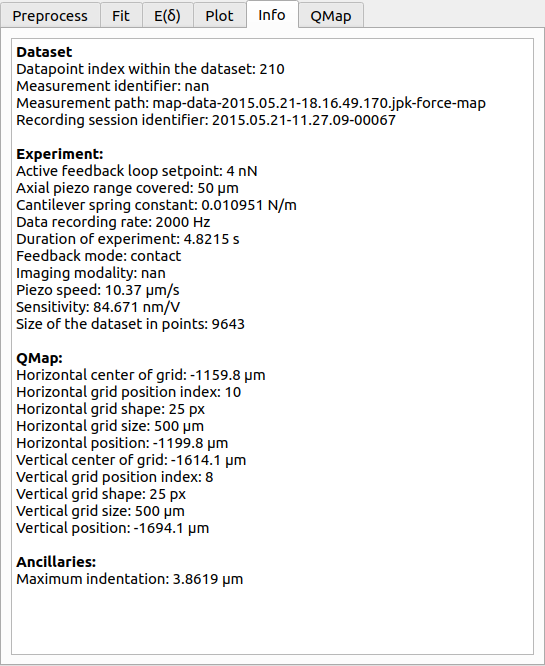
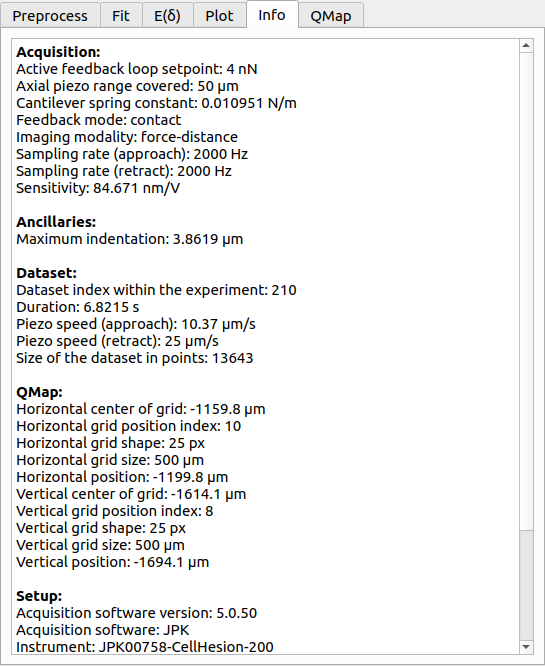
enh: several improvements regarding metadata handling

Changed region(s): [[0.0312, 0.0601, 0.9046, 0.991], [0.9358, 0.7808, 0.9982, 0.991], [0.9358, 0.0601, 0.967, 0.0901]]

diff --git a/pyjibe/fd/export.py b/pyjibe/fd/export.py
@@ -10,13 +10,10 @@ import nanite.model as nmodel
 from .. import units
 
 #: Valid export choices in `save_tsv_metadata_results`
-EXPORT_CHOICES = [
-    "dataset",
-    "experiment",
+EXPORT_CHOICES = list(meta.META_FIELDS.keys()) + [
     "params_ancillary",
     "params_fitted",
     "params_initial",
-    "qmap",
     "rating"]
 
 
@@ -69,25 +66,28 @@ def save_tsv_metadata_results(filename, fdist_list, which=EXPORT_CHOICES):
                 if "params_initial" in fdist.fit_properties:
                     fp = fdist.fit_properties["params_initial"]
                     for ki in fp:
-                        label, hrvalue = get_unitname_value(
-                            name=nmodel.get_parm_name(model_key, ki),
-                            value=fp[ki].value,
-                            unit=nmodel.get_parm_unit(model_key, ki))
-                        if label not in columns:
-                            columns[label] = [np.nan] * len(fdist_list)
-                        columns[label][ii] = hrvalue
+                        if not fp[ki].vary:
+                            label, hrvalue = get_unitname_value(
+                                name=nmodel.get_parm_name(model_key, ki),
+                                value=fp[ki].value,
+                                unit=nmodel.get_parm_unit(model_key, ki))
+                            if label not in columns:
+                                columns[label] = [np.nan] * len(fdist_list)
+                            columns[label][ii] = hrvalue
 
+            # Fitted
             if "params_fitted" in which:
                 if "params_fitted" in fdist.fit_properties:
                     fp = fdist.fit_properties["params_fitted"]
                     for ki in fp:
-                        label, hrvalue = get_unitname_value(
-                            name=nmodel.get_parm_name(model_key, ki),
-                            value=fp[ki].value,
-                            unit=nmodel.get_parm_unit(model_key, ki))
-                        if label not in columns:
-                            columns[label] = [np.nan] * len(fdist_list)
-                        columns[label][ii] = hrvalue
+                        if fp[ki].vary:
+                            label, hrvalue = get_unitname_value(
+                                name=nmodel.get_parm_name(model_key, ki),
+                                value=fp[ki].value,
+                                unit=nmodel.get_parm_unit(model_key, ki))
+                            if label not in columns:
+                                columns[label] = [np.nan] * len(fdist_list)
+                            columns[label][ii] = hrvalue
 
                     # Additional fit parameters
                     props = {"xmin": ("Fit interval minimum", "m"),

diff --git a/pyjibe/fd/tab_info.py b/pyjibe/fd/tab_info.py
@@ -17,46 +17,26 @@ class TabInfo(QtWidgets.QWidget):
         uic.loadUi(path_ui, self)
 
     def update_info(self, fdist):
+        hr_info = {}
+
+        # Metadata
         msum = fdist.metadata.get_summary()
-
-        text = []
-
-        # Dataset
-        text.append("<b>Dataset</b>")
-        for kk in msum["dataset"]:
-            text.append(get_string_rep_meta(kk, msum["dataset"][kk]))
-
-        # Experiment
-        text.append("")
-        text.append("<b>Experiment:</b>")
-        texte = []
-        for kk in msum["experiment"]:
-            texte.append(get_string_rep_meta(kk, msum["experiment"][kk]))
-        text += sorted(texte)
-
-        # QMap
-        if msum["qmap"] and not has_all_nans(msum["qmap"]):
-            text.append("")
-            text.append("<b>QMap:</b>")
-            textq = []
-            for kk in msum["qmap"]:
-                textq.append(get_string_rep_meta(kk, msum["qmap"][kk]))
-            text += sorted(textq)
-
-        # Analysis
-        if msum["analysis"] and not has_all_nans(msum["analysis"]):
-            text.append("")
-            text.append("<b>Analysis:</b>")
-            texta = []
-            for kk in msum["analysis"]:
-                texta.append(get_string_rep_meta(kk, msum["analysis"][kk]))
-            text += sorted(texta)
+        for sec in msum:
+            if sec == "qmap":
+                if msum["qmap"] and not has_all_nans(msum["qmap"]):
+                    textq = []
+                    for kk in msum["qmap"]:
+                        textq.append(get_string_rep_meta(kk, msum["qmap"][kk]))
+                    hr_info["QMap"] = textq
+            else:
+                atext = []
+                for kk in msum[sec]:
+                    atext.append(get_string_rep_meta(kk, msum[sec][kk]))
+                hr_info[sec.capitalize()] = atext
 
         # Ancillaries
         anc_dict = fdist.get_ancillary_parameters()
         if anc_dict:
-            text.append("")
-            text.append("<b>Ancillaries:</b>")
             text_meta = []
             model_key = fdist.fit_properties["model_key"]
             for kk in anc_dict:
@@ -64,7 +44,13 @@ class TabInfo(QtWidgets.QWidget):
                     get_string_rep(name=model.get_parm_name(model_key, kk),
                                    value=anc_dict[kk],
                                    unit=model.get_parm_unit(model_key, kk)))
-            text += sorted(text_meta)
+            hr_info["Ancillaries"] = text_meta
+
+        text = []
+        for sec in sorted(hr_info.keys()):
+            text.append("<b>{}:</b>".format(sec))
+            text += sorted(hr_info[sec])
+            text.append("")
 
         textstring = "<br>".join(text)
 

diff --git a/pyjibe/fd/main.py b/pyjibe/fd/main.py
@@ -227,8 +227,7 @@ class UiForceDistance(QtWidgets.QWidget):
                         )
                         fname = os.path.join(adir, newbase)
                 # Export data
-                which = export.EXPORT_CHOICES.copy()
-                which.remove("params_ancillary")
+                which = ["params_fitted", "rating"]
                 export.save_tsv_metadata_results(filename=fname,
                                                  fdist_list=exp_curv,
                                                  which=which)
@@ -331,6 +330,8 @@ class UiForceDistance(QtWidgets.QWidget):
         self.tab_qmap.mpl_qmap_update()
         # Display edelta
         self.tab_edelta.mpl_edelta_update()
+        # Autosave
+        self.autosave(fdist)
 
     def on_curve_list_item_changed(self, item):
         """An item in the curve list was changed

diff --git a/pyjibe/fd/dlg_export_vals.py b/pyjibe/fd/dlg_export_vals.py
@@ -31,9 +31,11 @@ class ExportDialog(QtWidgets.QDialog):
                 if not fname.endswith(".tsv"):
                     fname += ".tsv"
                 user_choices = {
+                    "acquisition": self.checkBox_acquisition,
                     "dataset": self.checkBox_dataset,
-                    "experiment": self.checkBox_experiment,
                     "qmap": self.checkBox_qmap,
+                    "setup": self.checkBox_setup,
+                    "storage": self.checkBox_storage,
                     "params_initial": self.checkBox_initial,
                     "params_fitted": self.checkBox_fitted,
                     "params_ancillary": self.checkBox_ancillary,

diff --git a/setup.py b/setup.py
@@ -24,7 +24,7 @@ setup(
     license="GPL v3",
     description=description,
     long_description=open('README.rst').read() if exists('README.rst') else '',
-    install_requires=["afmformats>=0.5.1",
+    install_requires=["afmformats>=0.7.0",
                       "appdirs",
                       "nanite>=1.4.1",
                       "matplotlib",

diff --git a/docs/sec_interface.rst b/docs/sec_interface.rst
@@ -171,16 +171,8 @@ Tab: Info
 The info tab shows metadata related to the currently shown curve.
 Unknown values are indicated as *nan*.
 
-Dataset:
-    All information related to the dataset on disk and of the curve
-    relative to this dataset.
-
-Experiment:
-    All information on the actual experiment.
-
-QMap:
-    If the curve is part of a quantiative map (2D FD scan), then
-    the scan grid properties and the curve position are listed.
+Acquisition:
+    Settings of the acquisition software
 
 Ancillaries:
     Ancillary parameters are computed for each model. Here, the
@@ -188,6 +180,20 @@ Ancillaries:
     the fitted contact point and the value of the tip position where
     the fitted curve has its maximum. Fit models may have their own
     specific ancillary parameters.
+
+Dataset:
+    Measurement parameters of the dataset
+
+QMap:
+    If the curve is part of a quantiative map (2D FD scan), then
+    the scan grid properties and the curve position are listed.
+
+Setup:
+    Information about the AFM setup used
+
+Storage:
+    Information about the data file, which are not particularly important
+    for the experiment, but allow to identify a dataset or curve
 
 .. _sec_ui_fd_tab_qmap:
 
